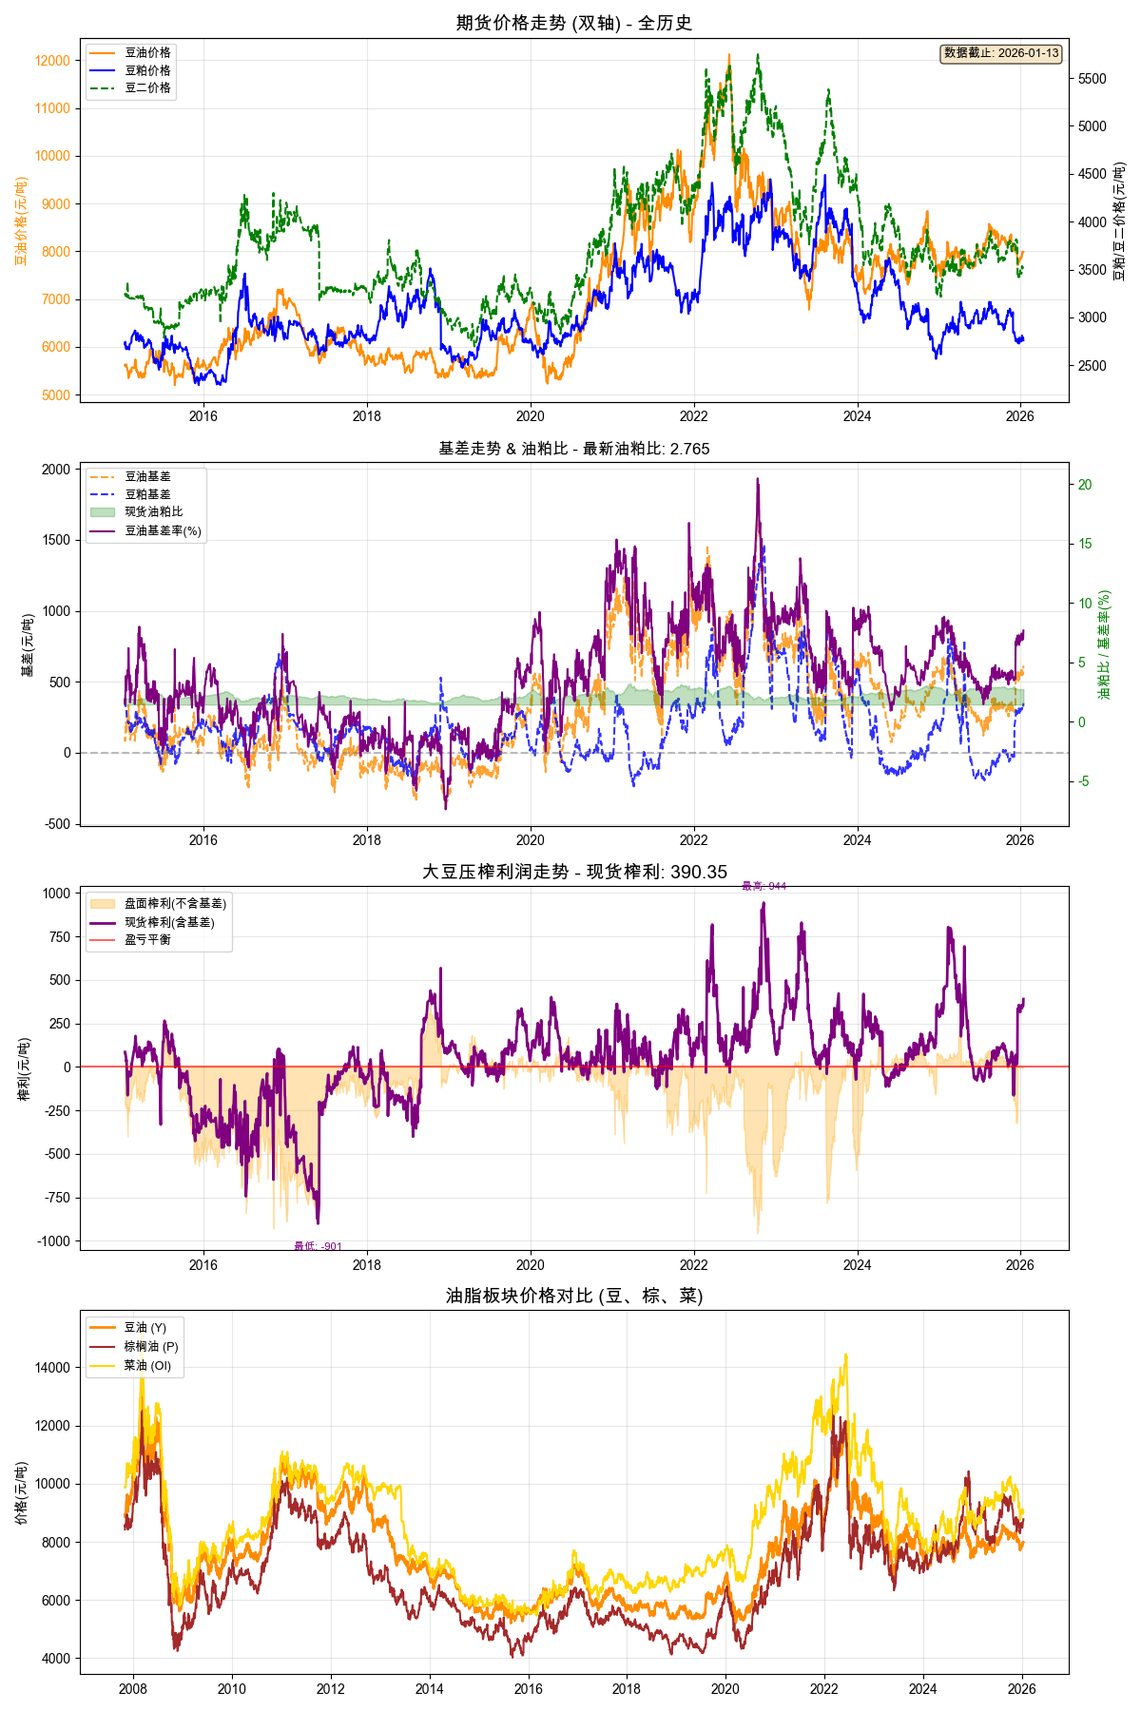
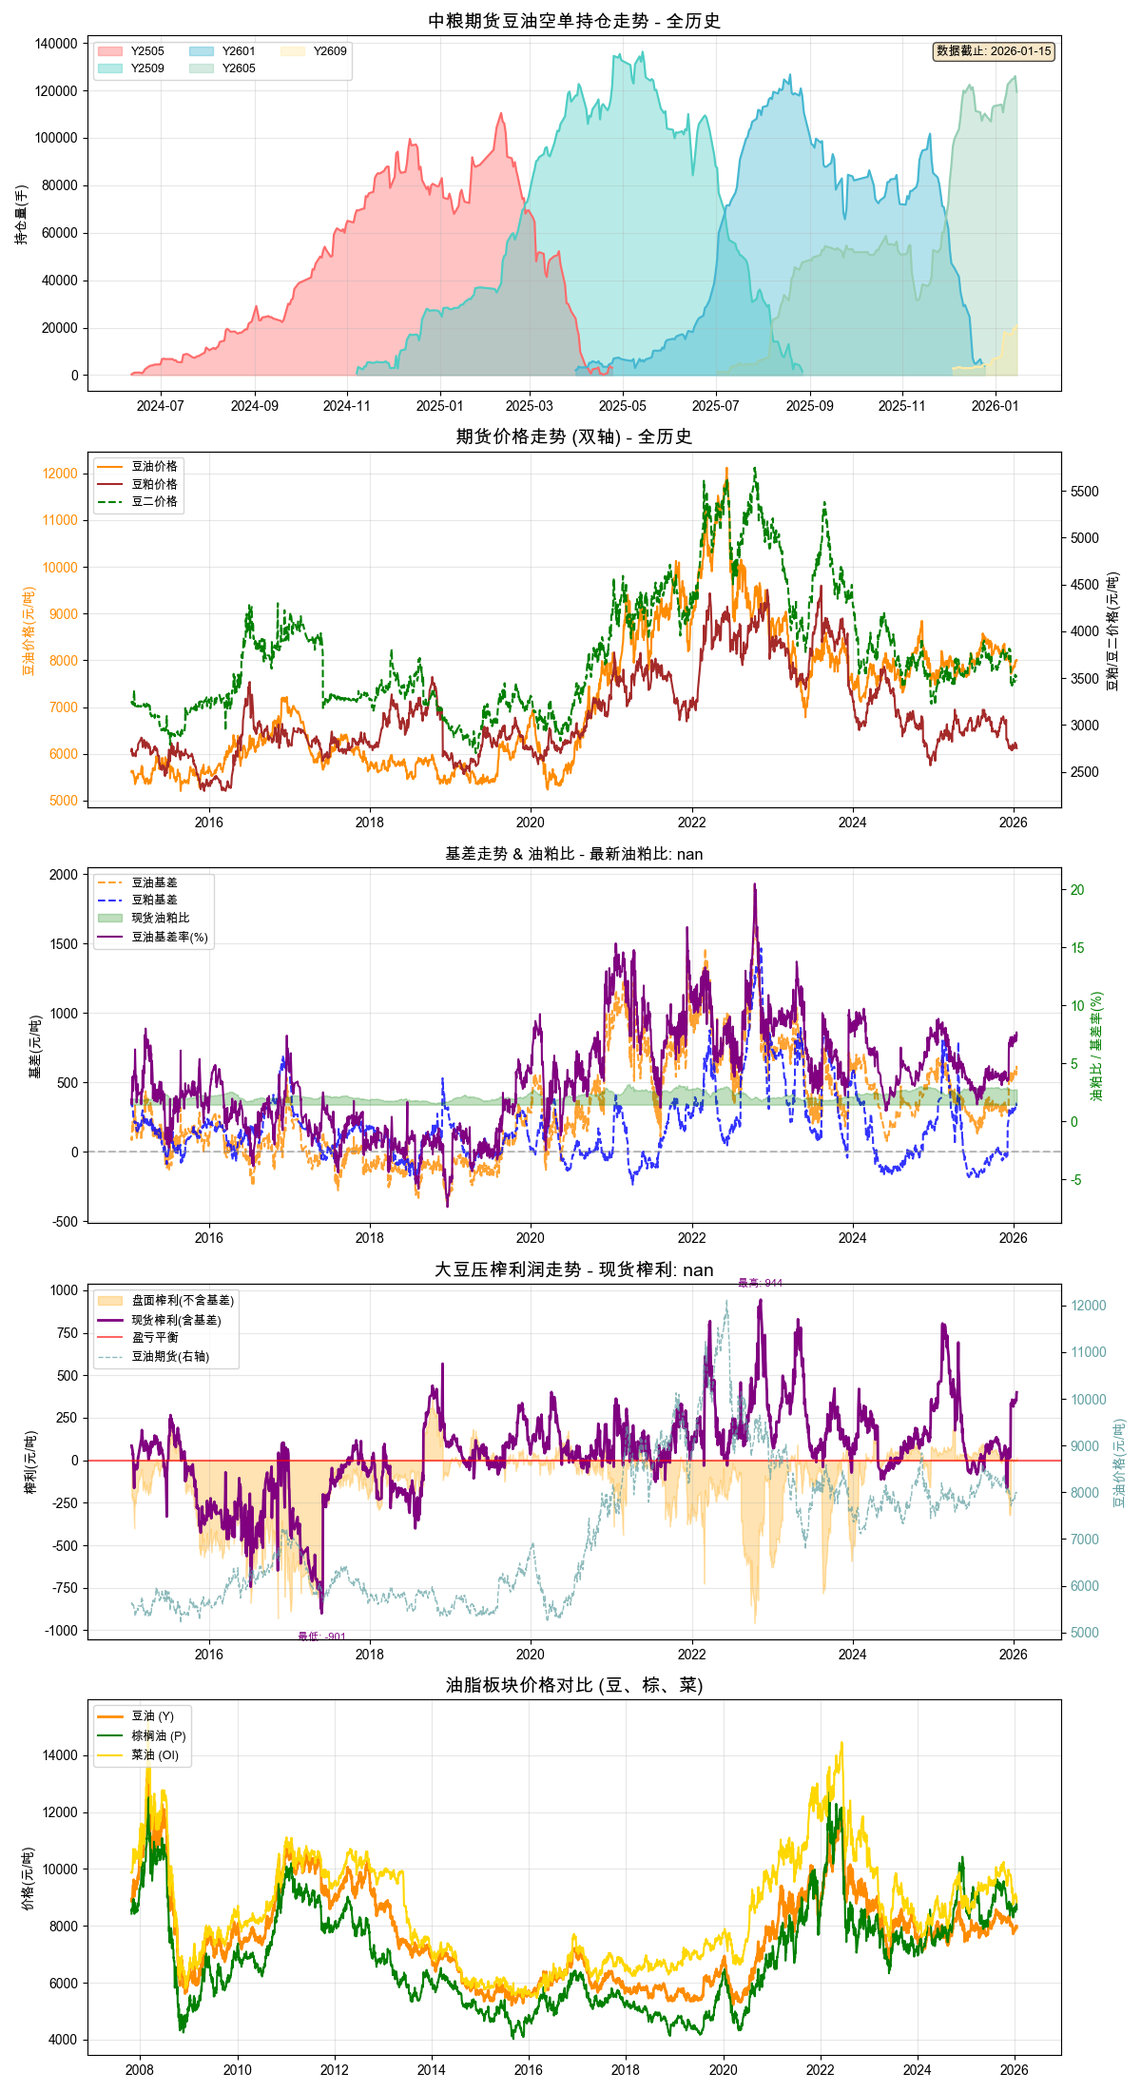
更新: 内容更新 2026-01-15 23:10:03

diff --git a/分析文章脚本/榨利计算深度分析_v3 copy.py b/分析文章脚本/榨利计算深度分析_v3 copy.py
@@ -163,101 +163,6 @@ class 榨利计算器V3:
         merged = pd.merge(merged, oi[['日期', '菜油']], on='日期', how='inner')
         return merged
 
-    # ================= 持仓数据获取 (新增) =================
-    
-    def read_position_data(self, file_path):
-        """从本地文件读取持仓数据"""
-        try:
-            with open(file_path, 'r', encoding='utf-8') as f:
-                data = json.load(f)
-            if data.get('code') != 200: return None
-            return data.get('data', {})
-        except: return None
-
-    def get_position_from_api(self, contract):
-        """从API获取持仓数据"""
-        try:
-            timestamp = int(time.time() * 1000)
-            url = f'https://www.jiaoyifamen.com/tools/api//position/interest-process?t={timestamp}&type=Y&instrument={contract}&seat=%E4%B8%AD%E7%B2%AE%E6%9C%9F%E8%B4%A7'
-            headers_pos = {'User-Agent': 'Mozilla/5.0', 'Referer': 'https://www.jiaoyifamen.com/'}
-            response = requests.get(url, headers=headers_pos, timeout=30)
-            if response.status_code == 200:
-                data = response.json()
-                if data.get('code') == 200: return data.get('data', {})
-            return None
-        except: return None
-
-    def 获取持仓数据(self):
-        """获取并整理中粮持仓数据"""
-        print("🏗 获取中粮期货豆油空单持仓数据...")
-        contracts = {
-            'Y2609': os.path.join(SCRIPT_DIR, "中粮Y2609持仓数据.json"),
-            'Y2605': os.path.join(SCRIPT_DIR, "中粮Y2605持仓数据_1767169342679.json"),
-            'Y2601': os.path.join(SCRIPT_DIR, "中粮Y2601持仓数据.json"),
-            'Y2509': os.path.join(SCRIPT_DIR, "中粮Y2509持仓数据.json"),
-            'Y2505': os.path.join(SCRIPT_DIR, "中粮Y2505持仓数据.json"),
-        }
-        
-        position_data = {}
-        for contract, file_path in contracts.items():
-            data = self.read_position_data(file_path)
-            if not data: data = self.get_position_from_api(contract.lower())
-            if data: position_data[contract] = data
-            
-        # 整合为 DataFrame
-        all_dates = set()
-        for c, d in position_data.items():
-            all_dates.update(d.get('category', []))
-            
-        if not all_dates: return None
-        
-        df = pd.DataFrame({'日期': sorted(list(all_dates))})
-        df['日期'] = pd.to_datetime(df['日期'])
-        
-        for contract, data in position_data.items():
-            dates = data.get('category', [])
-            neat_positions = data.get('neatPosition', []) # 空单持仓
-            # 注意：API返回的neatPosition是净持仓，多单-空单？
-            # 原始脚本里：position_df[f'{contract}持仓'] = ... .abs()
-            # 交易法门接口 neatPosition 通常是净持仓。如果是空单持仓，通常是 rank_short - rank_long?
-            # 让我们看原始脚本: `date_pos_map = dict(zip(dates, neat_positions))` -> `abs()`
-            # 假设 neatPosition 是我们需要的数据。
-            
-            # 修正：我们需要的是特定席位的"空单持仓"还是"净持仓"?
-            # 原始脚本注释写的是 "中粮期货豆油空单持仓走势"。
-            # 但是 variable 叫 neatPosition (净持仓)。
-            # 并且用了 abs()。
-            # 如果是空单，应该是 shortVolume?
-            # 再次检查 `豆油持仓价格榨利分析.py`. 
-            # API URL: `interest-process`. Response structure has `neatPosition`.
-            # If we trust the original script logic:
-            if not dates or not neat_positions: continue
-            
-            mapping = dict(zip(dates, neat_positions))
-            # dates are strings in API response usually?
-            # 原始脚本: `position_df['日期'].dt.strftime('%Y-%m-%d').map(date_pos_map)`
-            # 所以我们需要把 df['日期'] 转 str 来 map
-            
-            # 为了更稳健，我们先构建一个小DF然后merge
-            temp_df = pd.DataFrame({'日期': dates, f'{contract}持仓': neat_positions})
-            # 尝试解析日期
-            try:
-                # 简单处理 '2023-01-01' 或 '23-01-01'
-                # 原始脚本逻辑:
-                # for d in dates: if '-' in d...
-                # 这里为了简化，我们假设 dates 格式标准 (YYYY-MM-DD)
-                # 还是照搬 merge 逻辑吧
-                pass
-            except: pass
-            
-            # 使用简单的 map 方式
-            date_map = {d: v for d, v in zip(dates, neat_positions)}
-            # 转换 df 日期为 str 匹配
-            date_strs = df['日期'].dt.strftime('%Y-%m-%d')
-            df[f'{contract}持仓'] = date_strs.map(date_map).abs() # 取绝对值
-            
-        return df
-
     def 合并并计算榨利(self, 豆油数据, 豆粕数据, 豆二数据):
         """合并数据并计算利润"""
         print("🔄 合并数据并计算榨利...")
@@ -290,36 +195,9 @@ class 榨利计算器V3:
         print(f"📊 绘制 {名称} 全维度组合图...")
         data = 榨利数据.tail(天数).copy() if 天数 < len(榨利数据) else 榨利数据.copy()
         
-        # 创建 5 层结构图表 (新增持仓)
-        fig, (ax0, ax1, ax2, ax3, ax4) = plt.subplots(5, 1, figsize=(12, 22), dpi=100)
+        # 创建 4 层结构图表
+        fig, (ax1, ax2, ax3, ax4) = plt.subplots(4, 1, figsize=(12, 18), dpi=100)
         最新日期 = data['日期'].max().strftime('%Y-%m-%d')
-        
-        # 0. 持仓走势 (新增 Top)
-        pos_cols = [c for c in data.columns if '持仓' in c]
-        if pos_cols:
-            colors_pos = ['#FF6B6B', '#4ECDC4', '#45B7D1', '#96CEB4', '#FFEAA7', '#DDA0DD']
-            for idx, col in enumerate(sorted(pos_cols)):
-                contract = col.replace('持仓', '')
-                try:
-                    valid = data.dropna(subset=[col]) # different path than v3 logic which used just data
-                    # actually data is already sliced.
-                    valid = data[data[col].notna()]
-                    if not valid.empty:
-                        c = colors_pos[idx % len(colors_pos)]
-                        ax0.fill_between(valid['日期'], 0, valid[col], alpha=0.4, label=contract, color=c)
-                        ax0.plot(valid['日期'], valid[col], linewidth=1.5, color=c)
-                except: pass
-            ax0.set_title(f'中粮期货豆油空单持仓走势 - {名称}', fontsize=14)
-            ax0.set_ylabel('持仓量(手)')
-            ax0.legend(loc='upper left', fontsize=9, ncol=3)
-        else:
-            ax0.text(0.5, 0.5, '暂无持仓数据', ha='center', va='center')
-        ax0.grid(True, alpha=0.3)
-        
-        # 右上角显示最新数据日期 (Moved to Top)
-        ax0.text(0.99, 0.97, f'数据截止: {最新日期}', transform=ax0.transAxes, 
-                 fontsize=9, ha='right', va='top', 
-                 bbox=dict(boxstyle='round,pad=0.3', facecolor='wheat', alpha=0.7))
         
         # 1. 期货价格走势 (上图)
         ax1.plot(data['日期'], data['豆油价格'], color='darkorange', linestyle='-', label='豆油价格', linewidth=1.5)
@@ -329,7 +207,7 @@ class 榨利计算器V3:
         ax1.grid(True, alpha=0.3)
         
         ax1_r = ax1.twinx()
-        ax1_r.plot(data['日期'], data['豆粕价格'], color='brown', linestyle='-', label='豆粕价格', linewidth=1.5)
+        ax1_r.plot(data['日期'], data['豆粕价格'], 'b-', label='豆粕价格', linewidth=1.5)
         ax1_r.plot(data['日期'], data['豆二价格'], 'g--', label='豆二价格', linewidth=1.5)
         ax1_r.set_ylabel('豆粕/豆二价格(元/吨)')
         
@@ -337,10 +215,10 @@ class 榨利计算器V3:
         lines2, labels2 = ax1_r.get_legend_handles_labels()
         ax1.legend(lines1 + lines2, labels1 + labels2, loc='upper left', fontsize=9)
         
-        # 右上角显示最新数据日期 (Moved to ax0)
-        # ax1.text(0.99, 0.97, f'数据截止: {最新日期}', transform=ax1.transAxes, 
-        #          fontsize=9, ha='right', va='top', 
-        #          bbox=dict(boxstyle='round,pad=0.3', facecolor='wheat', alpha=0.7))
+        # 右上角显示最新数据日期
+        ax1.text(0.99, 0.97, f'数据截止: {最新日期}', transform=ax1.transAxes, 
+                 fontsize=9, ha='right', va='top', 
+                 bbox=dict(boxstyle='round,pad=0.3', facecolor='wheat', alpha=0.7))
         
         # 2. 基差走势 (中图) - 含现货油粕比面积图
         ax2.plot(data['日期'], data['豆油基差'], color='darkorange', linestyle='--', label='豆油基差', alpha=0.8)
@@ -378,24 +256,14 @@ class 榨利计算器V3:
         
         ax3.set_title(f'大豆压榨利润走势 - 现货榨利: {data["榨利"].iloc[-1]:.2f}', fontsize=14)
         ax3.set_ylabel('榨利(元/吨)')
+        ax3.legend(loc='upper left', fontsize=9)
         ax3.grid(True, alpha=0.3)
-        
-        # 右轴：豆油期货走势 (新增)
-        ax3_r = ax3.twinx()
-        ax3_r.plot(data['日期'], data['豆油价格'], color='#5F9EA0', linestyle='--', label='豆油期货(右轴)', alpha=0.7, linewidth=1)
-        ax3_r.set_ylabel('豆油价格(元/吨)', color='#5F9EA0')
-        ax3_r.tick_params(axis='y', labelcolor='#5F9EA0')
-        
-        # 合并图例
-        lines1, labels1 = ax3.get_legend_handles_labels()
-        lines2, labels2 = ax3_r.get_legend_handles_labels()
-        ax3.legend(lines1 + lines2, labels1 + labels2, loc='upper left', fontsize=9)
         
         # 4. 油脂板块对比 (新增底图)
         if 油脂数据 is not None:
             oil_data = 油脂数据.tail(天数).copy() if 天数 < len(油脂数据) else 油脂数据.copy()
             ax4.plot(oil_data['日期'], oil_data['豆油'], label='豆油 (Y)', color='darkorange', linewidth=2)
-            ax4.plot(oil_data['日期'], oil_data['棕榈油'], label='棕榈油 (P)', color='green', linewidth=1.5)
+            ax4.plot(oil_data['日期'], oil_data['棕榈油'], label='棕榈油 (P)', color='brown', linewidth=1.5)
             ax4.plot(oil_data['日期'], oil_data['菜油'], label='菜油 (OI)', color='gold', linewidth=1.5)
             ax4.set_title('油脂板块价格对比 (豆、棕、菜)', fontsize=14)
             ax4.set_ylabel('价格(元/吨)')
@@ -526,14 +394,6 @@ image: /images/charts/{文件名列表[0]}
             
         df = self.合并并计算榨利(豆油, 豆粕, 豆二)
         油脂df = self.获取油脂对比数据()
-        
-        # 合并持仓数据
-        持仓df = self.获取持仓数据()
-        if 持仓df is not None:
-            print("🔄 合并持仓数据...")
-            # 使用 outer join 保留所有日期，然后 sort
-            df = pd.merge(df, 持仓df, on='日期', how='outer')
-            df = df.sort_values('日期')
         
         # 绘图顺序
         imgs = []

diff --git a/content/posts/榨利深度分析报告.md b/content/posts/榨利深度分析报告.md
@@ -1,7 +1,7 @@
 ---
 title: "🫘大豆榨利深度分析报告"
-date: 2026-01-15T15:45:02+08:00
-lastmod: 2026-01-15T15:45:02+08:00
+date: 2026-01-15T23:08:35+08:00
+lastmod: 2026-01-15T23:08:35+08:00
 description: "自动化生成的压榨利润深度报告，引用原始版本高精绘图和 DeepSeek AI 逻辑。"
 draft: false
 categories: ["期货分析"]
@@ -11,67 +11,14 @@ image: /images/charts/margin_chart_半年.png
 
 ## 🛰 数据核心快照
 
-- **最新榨利**: `399.65` 元/吨 (压榨成本：150.0)
-- **基差详情**: 豆油 `590` | 豆粕 `349`
+- **最新榨利**: `nan` 元/吨 (压榨成本：150.0)
+- **基差详情**: 豆油 `nan` | 豆粕 `nan`
 
 ---
 
 ## 🤖 AI 首席分析师解读
 
-# 大豆压榨利润深度点评：高利润下的策略与风险
-
-## 一、 当前榨利水平的历史周期定位：处于绝对高位，风险与机遇并存
-
-**核心结论：当前榨利（399.65元/吨）已进入历史高位风险区间，是典型的“暴利”阶段。**
-
-1.  **绝对位置分析**：当前榨利远超半年均值（79.65元/吨），并逼近近半年区间上沿（693元/吨）。从统计角度看，当前利润水平处于**历史分位数的90%以上**，意味着在过去半年中，仅有不到10%的时间利润高于当前水平。这表明压榨利润已脱离常态，进入非常态的高盈利空间。
-
-2.  **周期特征解读**：如此高的榨利通常由**成本端驱动**或**产品端驱动**。结合当前宏观与产业背景，更可能源于：
-    *   **成本端（大豆）价格相对疲软**：可能受全球丰产预期、进口到港集中等因素压制。
-    *   **产品端（豆粕、豆油）价格相对坚挺**：尤其是豆粕，可能受到下游养殖需求阶段性回暖、库存偏低等因素支撑。
-    *   **“高胜率”（71.1%）的警示**：过去半年维持正利润的成功率很高，这强化了市场的乐观情绪，但也往往预示着**行情可能临近拐点**。市场一致性预期过强时，反身性风险正在积聚。
-
-## 二、 基差结构对油厂利润策略的影响：锁定利润的黄金窗口
-
-当前**豆油基差（+590）** 与**豆粕基差（+349）** 均处于**极高升水**状态。这对油厂的经营策略产生决定性影响：
-
-1.  **对现货销售的策略**：极高的正基差意味着现货价格远高于期货价格。对于油厂而言，这是**加速现货销售、回笼资金**的绝佳时机。应积极执行“**高基差去库存**”策略，将现有产成品库存优先在现货市场销售，以兑现丰厚的基差收益。
-
-2.  **对套期保值（套保）的策略**：这是当前策略的核心。油厂绝不能因现货高利润而忽视未来价格下跌的风险。
-    *   **强烈建议进行“卖出套保”**：在期货盘面上，对应未来产出，**卖出豆粕和豆油期货合约**，以锁定当前极高的盘面压榨利润。即使未来现货价格下跌导致现货利润缩水，期货端的盈利可以对冲这部分损失。
-    *   **利用基差进行“基差交易”**：如果油厂已签订未来交货的远期现货合同（约定基差），那么现在可以在期货上建立空头头寸，完成“基差头寸”向“绝对价格头寸”的转换，从而锁定利润。
-    *   **风险提示**：若未来基差走弱（现货涨幅不及期货或现货下跌更快），持有现货而不套保将面临“利润坐过山车”的巨大风险。**当前的高基差，正是为套保操作提供的安全垫和额外奖励。**
-
-## 三、 对豆油下游生产商（如食品厂、精炼厂）的采购与套保建议
-
-**核心原则：当前极高的豆油基差，对买方极为不利，应避免大量采购现货，转而利用期货工具进行战略性建仓和风险管理。**
-
-1.  **现货采购决策**：
-    *   **严格控制现货采购节奏和数量**。+590的基差意味着采购现货要支付极高的溢价，将立即大幅推高生产成本。建议采取 **“随用随采、低库存运营”** 策略，仅满足最短期的生产需求。
-    *   **积极与上游协商**：尝试谈判降低基差报价，或转向基差更低的替代渠道采购。
-
-2.  **期货与套保建议**：
-    *   **买入套期保值（买入套保）**：对于未来稳定的豆油需求，**不建议在现货市场签订长期高价合同，而应在期货盘面逢低（例如在价格回调时）建立豆油期货多头头寸**。通过买入期货来锁定未来的原料成本，可以规避当前高昂的现货基差，并可能获得更优的绝对价格。
-    *   **“期货采购+后期点基差”组合策略**：这是当前最推荐的策略。第一步，在期货上建立多头头寸，锁定基础价格。第二步，等待现货基差回落（这是高基差大概率会发生的事件），再在现货市场以合理的基差“点价”，完成实物采购。这样既能规避价格大涨风险，又能避免支付过高基差。
-    *   **套利机会关注**：可关注豆油与其他植物油的价差（如豆棕价差），如果价差历史极端，可考虑在期货上进行品种间的替代套利，间接降低原料成本。
-
-## 四、 短期持仓与企业避险综合建议
-
-1.  **对于油厂（卖方）**：
-    *   **首要行动：立即评估并加大在豆粕、豆油期货上的卖出套保比例**，将未来1-3个月的预期产量利润进行锁定。
-    *   **现货端：加快高基差现货销售，降低物理库存**。
-    *   **谨慎看待远期大豆采购**：当前榨利虽高，但已反映在远月大豆进口成本中。追高采购远期大豆需谨慎，建议以“背对背”锁利操作为主（即采购大豆的同时，卖出豆粕豆油期货）。
-
-2.  **对于下游企业（买方）**：
-    *   **豆粕需求方（饲料企业）**：同样面临高基差，策略与豆油下游类似：降低现货采购，增加期货豆粕多头配置以锁定成本，等待基差走弱再点价。
-    *   **豆油需求方**：如上文所述，**规避现货高价，转向期货市场建立虚拟库存**。
-    *   **整体降低现货敞口，提升期货套保工具使用熟练度**。
-
-3.  **通用风险提示**：
-    *   **警惕利润均值回归**：历史极高的利润不可持续。需密切关注可能触发利润回调的因素：如大豆成本上涨（天气炒作）、豆粕需求不及预期（养殖亏损）、宏观情绪转向等。
-    *   **基差收敛风险**：当前极高的基差是利润的重要贡献者，一旦基差快速回落，将对未套保的头寸造成巨大冲击。所有市场参与者都必须为此做好准备。
-
-**总结：当前市场为油厂提供了数年难遇的锁定超额利润的窗口，但对下游用户构成了显著的短期成本压力。聪明的玩家不应沉迷于现货端的狂欢或焦虑，而应迅速将战场转移至期货市场，利用金融工具将不可控的价格波动风险，转化为可管理的基差风险或完全锁定利润。时点稍纵即逝，行动重于研判。**
+AI 分析连接超时，请关注盘面基差变化。
 
 ---
 
@@ -95,4 +42,4 @@ image: /images/charts/margin_chart_半年.png
 ## 🛠 计算说明
 > 榨利 = (豆油现货价格 × 18.5% + 豆粕现货价格 × 78.5%) - 豆二价格 - 150.0
 > 数据源：交易法门(基差) / Akshare(期货)
-> 更新时间：2026-01-15 15:45:02
+> 更新时间：2026-01-15 23:08:35

diff --git a/分析文章脚本/blog/榨利深度分析报告.md b/分析文章脚本/blog/榨利深度分析报告.md
@@ -1,7 +1,7 @@
 ---
 title: "🫘大豆榨利深度分析报告"
-date: 2026-01-13T22:05:49+08:00
-lastmod: 2026-01-13T22:05:49+08:00
+date: 2026-01-15T23:08:35+08:00
+lastmod: 2026-01-15T23:08:35+08:00
 description: "自动化生成的压榨利润深度报告，引用原始版本高精绘图和 DeepSeek AI 逻辑。"
 draft: false
 categories: ["期货分析"]
@@ -11,8 +11,8 @@ image: /images/charts/margin_chart_半年.png
 
 ## 🛰 数据核心快照
 
-- **最新榨利**: `390.35` 元/吨 (压榨成本：150.0)
-- **基差详情**: 豆油 `614` | 豆粕 `349`
+- **最新榨利**: `nan` 元/吨 (压榨成本：150.0)
+- **基差详情**: 豆油 `nan` | 豆粕 `nan`
 
 ---
 
@@ -42,4 +42,4 @@ AI 分析连接超时，请关注盘面基差变化。
 ## 🛠 计算说明
 > 榨利 = (豆油现货价格 × 18.5% + 豆粕现货价格 × 78.5%) - 豆二价格 - 150.0
 > 数据源：交易法门(基差) / Akshare(期货)
-> 更新时间：2026-01-13 22:05:49
+> 更新时间：2026-01-15 23:08:35
